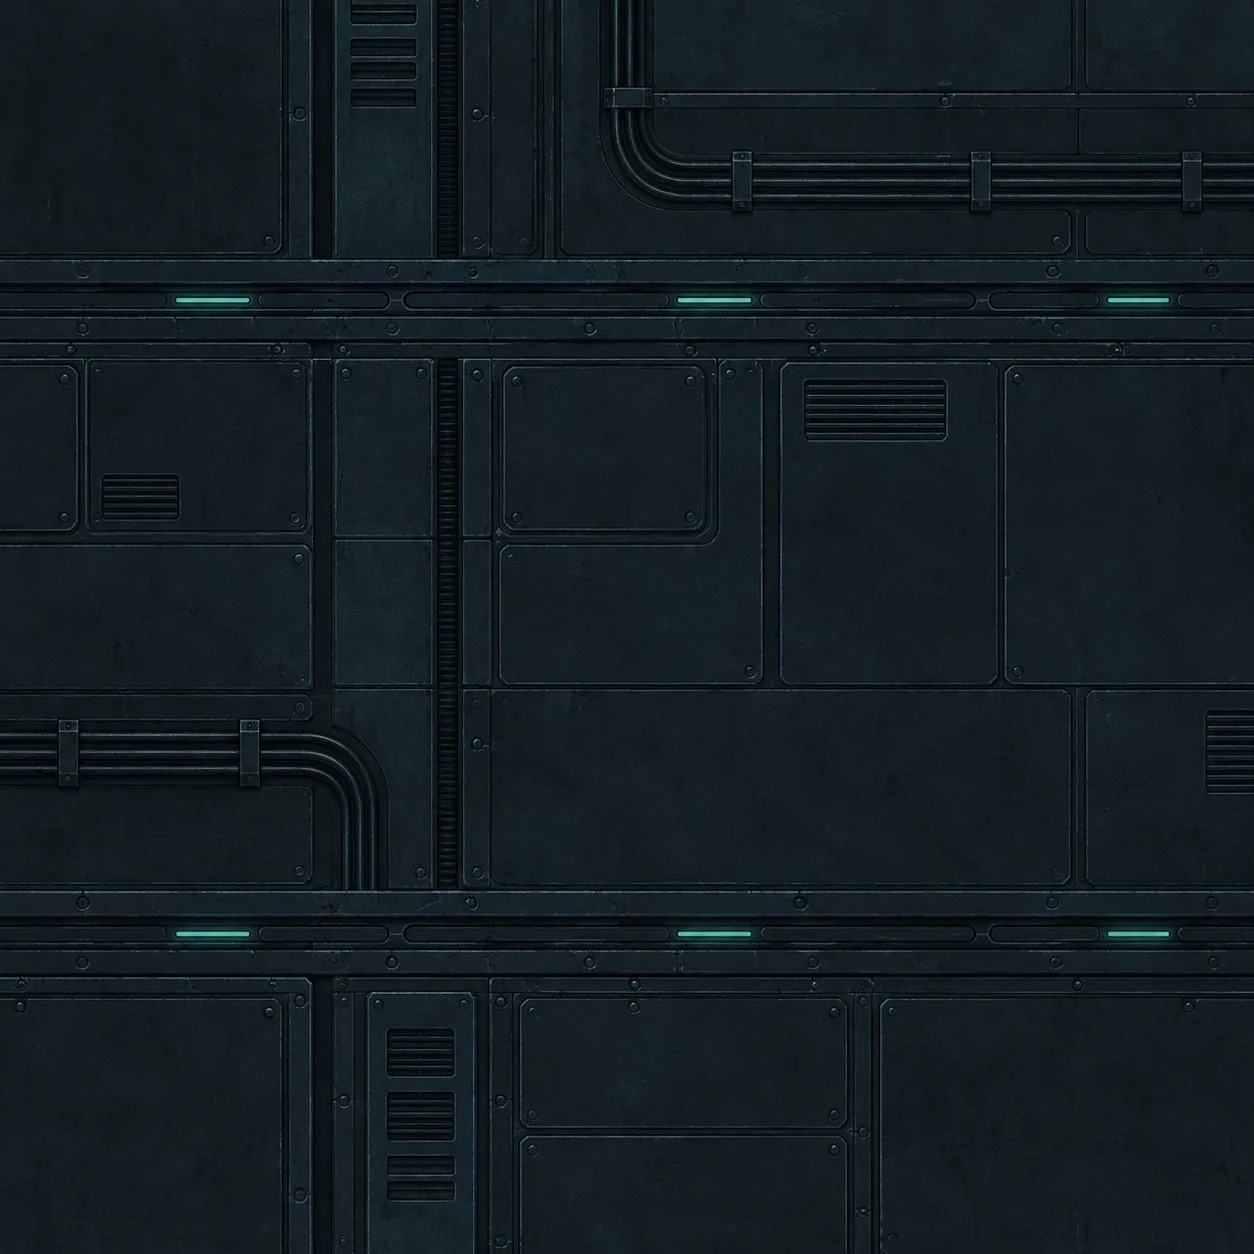
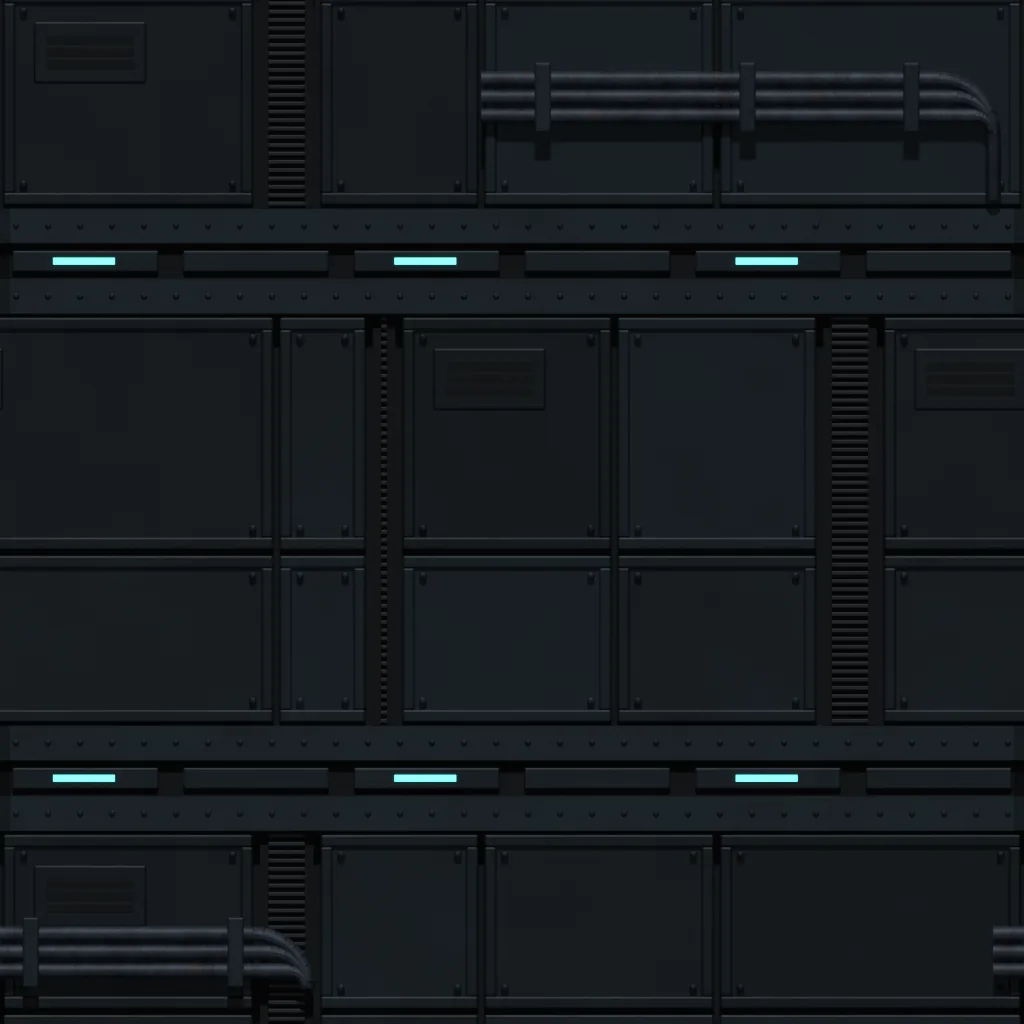
Le mur et le fond de cuve se raccordent : refaits dans Blender
Symptôme : la couture de wall et de tank-bg se voyait à chaque
répétition (prepare.py --audit : wall raccord vertical 4,7, tank-bg
horizontal 3,2 ; seuil 3,0). Le fond de cuve se répétait en miroir pour
la cacher, et ses caissons se répondaient en symétrie.

Cause : deux images générées, qui ne sont pas périodiques.

Correctif : le même dessin refait dans l'atelier de la chaufferie
(tools/images/blender/surfaces.py) — bruit sur un tore, carreau entouré
de ses huit copies, mise en page périodique —, et tank-bg revient à la
répétition simple (renderer.ts). assets-ia §17 liste ce qui est livré.

Vérification : wall raccord 0,5 / 0,3, tank-bg 0,6 / 0,4, contrôlés aussi
à l'œil en 2×2. Luminance 0,15 et 0,10 (0,17 et 0,11 avant). tsc 0
erreur, 1923 tests, construction OK.

diff --git a/src/render/renderer.ts b/src/render/renderer.ts
@@ -5412,18 +5412,13 @@ export class Renderer {
       (t) => (this.texStarsFar = t),
       true,
     )
-    // Le fond de cuve n'est PAS raccordable (mesuré : écart de bord ~5 contre
-    // 1,5 en interne) — en répétition simple, chaque frontière de tuile
-    // coupait les conduites net et désalignait les caissons. La répétition
-    // EN MIROIR raccorde par construction : les bords coïncident, les
-    // conduites font demi-tour au lieu de disparaître.
-    this.loadTexture(
-      '/assets/tank-bg.webp',
-      true,
-      true,
-      (t) => (this.texTank = t),
-      true,
-    )
+    // Le fond de cuve se répète SIMPLEMENT depuis le 13/11 : refait dans
+    // Blender (tools/images/blender/surfaces.py), il se raccorde par
+    // construction (raccord 0,6 / 0,4, seuil 3,0). L'ancien, généré, ne se
+    // raccordait pas (écart de bord ~5 contre 1,5 en interne) et se répétait
+    // EN MIROIR — les bords coïncidaient, mais les caissons et les conduites
+    // se répondaient en symétrie, ce qui trahissait la répétition.
+    this.loadTexture('/assets/tank-bg.webp', true, true, (t) => (this.texTank = t))
     this.loadTexture('/assets/wall.webp', true, true, (t) => (this.texWall = t))
     this.loadTexture(
       '/assets/wall-a.webp',

diff --git a/tools/images/blender/surfaces.py b/tools/images/blender/surfaces.py
@@ -1,0 +1,268 @@
+"""LES SURFACES RÉPÉTÉES, refaites dans Blender (13/11) — wall.webp et
+tank-bg.webp, deux carreaux qui se raccordent sur leurs quatre bords.
+
+Les anciens sortaient d'un générateur d'images et leur couture se voyait
+(prepare.py --audit : wall raccord vertical 4,7, tank-bg horizontal 3,2 ; le
+seuil est 3,0). Ici, le même dessin — des plaques d'acier brossé à coins
+coupés pour le mur, des panneaux sombres barrés de rails à voyants pour le
+fond de cuve — refait dans l'atelier de la chaufferie, où le raccord vient
+PAR CONSTRUCTION (chaud_tole.py, en-tête) : le bruit des matières pris sur un
+tore, le carreau entouré de ses huit copies, une marge rendue puis rognée.
+
+Une mise en page PÉRIODIQUE : chaque rangée donne ses coutures dans [0, 1) ;
+la dernière plaque déborde à droite, et la copie de gauche la ramène au début.
+
+Dans Blender :
+    DOSSIER = r'...\\tools\\images\\blender'
+    exec(open(DOSSIER + r'\\surfaces.py', encoding='utf-8').read())
+    surfaces() ; lance(['wall', 'tank-bg'], SORTIE, 384)
+"""
+import bpy, bmesh, math, os, random
+from mathutils import Matrix, Vector
+
+_src = os.path.join(DOSSIER, 'chaud_biome.py')
+exec(compile(open(_src, encoding='utf-8').read(), _src, 'exec'), globals())
+
+PREFIXE = ''
+
+
+# ------------------------------------------------------------- les matières
+def mat_brosse(nom, base, clair, graine, brosse=0.10, rouille=None):
+    """l'acier peint et brossé : un trait horizontal fin (le bruit très serré
+    en z, lâche en x), une marbrure large, chaque plaque un rien différente
+    (l'attribut 'var' de l'atelier)"""
+    mat = bpy.data.materials.new(nom)
+    nt, N, L = noeuds(mat)
+    out = N.new('ShaderNodeOutputMaterial')
+    b = N.new('ShaderNodeBsdfPrincipled')
+    L.new(b.outputs[0], out.inputs[0])
+    var = N.new('ShaderNodeAttribute')
+    var.attribute_type = 'GEOMETRY'
+    var.attribute_name = 'var'
+    v01 = op(nt, 'MULTIPLY_ADD', var.outputs['Fac'], 0.5, 0.5)
+    marbre = bruit_tore(nt, 2.0, 2.0, graine, detail=4, rugo=0.5)
+    trait = bruit_tore(nt, 4.0, 420.0, graine + 1, detail=3, rugo=0.6)
+    grain = bruit_tore(nt, 90.0, 90.0, graine + 2, detail=6, rugo=0.7)
+    t = op(nt, 'ADD', op(nt, 'MULTIPLY', marbre, 0.6), op(nt, 'MULTIPLY', v01, 0.5))
+    t = op(nt, 'ADD', t, op(nt, 'MULTIPLY', op(nt, 'SUBTRACT', trait, 0.5), brosse * 4))
+    coul = melange(nt, rampe(nt, t, 0.35, 1.15), lin(base), lin(clair))
+    if rouille:
+        r = rampe(nt, op(nt, 'MULTIPLY', marbre, grain), 0.36, 0.44)
+        coul = melange(nt, op(nt, 'MULTIPLY', r, 0.6), coul, lin(rouille))
+    L.new(coul, b.inputs['Base Color'])
+    b.inputs['Metallic'].default_value = 0.45
+    L.new(op(nt, 'ADD', 0.42, op(nt, 'MULTIPLY', trait, 0.18)), b.inputs['Roughness'])
+    bump = N.new('ShaderNodeBump')
+    bump.inputs['Strength'].default_value = 0.25
+    bump.inputs['Distance'].default_value = 0.0006
+    L.new(op(nt, 'ADD', trait, op(nt, 'MULTIPLY', grain, 0.5)), bump.inputs['Height'])
+    L.new(bump.outputs['Normal'], b.inputs['Normal'])
+    return mat
+
+
+# ------------------------------------------------------- l'atelier, en plus
+def _plaque_coupee(self, mat, x0, x1, z0, z1, yf, yb, var=0.0, coins=(0, 0, 0, 0)):
+    """une plaque à coins coupés en biseau : coins = (bas-gauche, bas-droite,
+    haut-droite, haut-gauche), la taille de la coupe (0 : coin droit)"""
+    bg, bd, hd, hg = coins
+    pts = []
+    for (x, z, c, dx, dz) in ((x0, z0, bg, 1, 1), (x1, z0, bd, -1, 1), (x1, z1, hd, -1, -1), (x0, z1, hg, 1, -1)):
+        if c:
+            # dans l'ordre du contour : on arrive par le côté vertical ou horizontal
+            if (dx, dz) in ((1, 1), (-1, -1)):
+                pts += [(x, z + dz * c), (x + dx * c, z)]
+            else:
+                pts += [(x + dx * c, z), (x, z + dz * c)]
+        else:
+            pts.append((x, z))
+    bm = self._bm(mat)
+    av = [bm.verts.new((x, yf, z)) for x, z in pts]
+    ar = [bm.verts.new((x, yb, z)) for x, z in pts]
+    n = len(pts)
+    faces = [bm.faces.new(av), bm.faces.new(list(reversed(ar)))]
+    for i in range(n):
+        j = (i + 1) % n
+        faces.append(bm.faces.new((av[i], av[j], ar[j], ar[i])))
+    bmesh.ops.recalc_face_normals(bm, faces=faces)
+    self._marque(mat, av + ar, var)
+
+
+Atelier.plaque_coupee = _plaque_coupee
+
+
+def fond(P, mats, nom='fond'):
+    me = bpy.data.meshes.new(P.name + '-fond')
+    bm = bmesh.new()
+    bmesh.ops.create_cube(bm, size=1.0, matrix=Matrix.Translation((0.5, FOND_Y + 0.005, 0.5)) @ Matrix.Diagonal((3, 0.01, 3, 1)))
+    bm.to_mesh(me)
+    bm.free()
+    me.materials.append(mats[nom])
+    P.objects.link(bpy.data.objects.new(P.name + '-fond', me))
+
+
+def carreau(sc, mats, nom, bati):
+    """un carreau : `bati(at, rng)` pose la géométrie dans [0,1]², les huit
+    copies l'entourent, la caméra cadre le carreau et sa marge"""
+    P = parent(sc, nom)
+    C = sous(P, nom + '-carreau')
+    at = Atelier()
+    bati(at, random.Random(len(nom) * 97))
+    at.objets(C, mats, {'panneau': 0.0022, 'rail': 0.0016, 'lame': 0.0006}, prefixe=nom)
+    fond(P, mats)
+    copies(P, C, [(dx, dz) for dx in (-1, 0, 1) for dz in (-1, 0, 1) if dx or dz])
+    declare(nom, P, 0, 1, 0, 1, mx=MARGE, mz=MARGE, alpha=False)
+
+
+def rangee(coutures):
+    """les plaques d'une rangée, de couture en couture ; la dernière va
+    jusqu'à la première + 1 (elle déborde, sa copie revient à gauche)"""
+    c = sorted(coutures)
+    return [(c[i], c[i + 1] if i + 1 < len(c) else c[0] + 1) for i in range(len(c))]
+
+
+# ------------------------------------------------------------------- le mur
+# relevé sur l'ancien wall.webp (1024 px) : quatre rangées de plaques
+# décalées, des coins coupés aux marches, un rivet à chaque coin, parfois deux
+MUR = [
+    # (bas, haut, coutures, coins coupés {indice de plaque: coins})
+    (0.000, 0.262, (0.15, 0.54, 0.895), {0: (0, 0, 0.02, 0), 1: (0, 0.02, 0, 0)}),
+    (0.262, 0.500, (0.12, 0.26, 0.72), {1: (0.025, 0, 0, 0.025), 2: (0, 0.025, 0, 0)}),
+    (0.500, 0.765, (0.0, 0.16, 0.555, 0.895), {1: (0, 0, 0, 0.02), 2: (0.02, 0, 0, 0)}),
+    (0.765, 1.000, (0.125, 0.545, 0.90), {2: (0, 0, 0.02, 0)}),
+]
+
+
+def mur(at, rng):
+    for (z0, z1, coutures, coupes) in MUR:
+        for i, (x0, x1) in enumerate(rangee(coutures)):
+            g = JEU / 2
+            var = rng.uniform(-1, 1)
+            at.plaque_coupee('panneau', x0 + g, x1 - g, z0 + g, z1 - g, 0.0, FOND_Y, var, coupes.get(i, (0, 0, 0, 0)))
+            # un rivet à chaque coin, en retrait ; un sur cinq, doublé
+            for (x, z, sx, sz) in ((x0, z0, 1, 1), (x1, z0, -1, 1), (x1, z1, -1, -1), (x0, z1, 1, -1)):
+                rx, rz = x + sx * 0.016, z + sz * 0.016
+                at.dome('rivet', rx, rz, 0.0045, 0.0, var)
+                if rng.random() < 0.2:
+                    at.dome('rivet', rx + sx * 0.011, rz, 0.0038, 0.0, var)
+
+
+# ------------------------------------------------------------ le fond de cuve
+RAILS = (0.24, 0.745)       # le milieu des deux rails à voyants, relevés sur l'ancien
+
+
+def rail(at, zc):
+    """un rail horizontal : deux plats rivetés, une gorge, trois voyants"""
+    h = 0.032
+    # les deux plats courent d'un bord à l'autre SANS biseau ('plat') : biseauté,
+    # leur bout marquait une encoche au bord du carreau, là où la copie reprend
+    at.boite('plat', -0.01, 1.01, zc + h * 0.55, zc + h * 1.6, -0.006, FOND_Y, 0.3)
+    at.boite('plat', -0.01, 1.01, zc - h * 1.6, zc - h * 0.55, -0.006, FOND_Y, 0.3)
+    at.boite('fond', -0.01, 1.01, zc - h * 0.55, zc + h * 0.55, 0.004, FOND_Y, 0)
+    for k in range(32):
+        x = (k + 0.5) / 32
+        at.dome('rivet', x, zc + h * 1.08, 0.0032, -0.006, 0)
+        at.dome('rivet', x, zc - h * 1.08, 0.0032, -0.006, 0)
+    # les fentes de la gorge, et les voyants dans trois d'entre elles
+    for k in range(6):
+        x0 = k / 6 + 0.012
+        at.boite('rail', x0, x0 + 1 / 6 - 0.024, zc - h * 0.32, zc + h * 0.32, -0.002, 0.004, -0.4)
+        if k % 2 == 0:
+            at.boite('voyant', x0 + 0.04, x0 + 0.1, zc - h * 0.1, zc + h * 0.1, -0.0035, -0.002, 0)
+
+
+def grille(at, x0, x1, z0, z1, var):
+    at.boite('panneau', x0, x1, z0, z1, -0.002, FOND_Y, var)
+    n = max(3, round((z1 - z0 - 0.02) / 0.016))
+    for i in range(n):
+        z = z0 + 0.012 + (z1 - z0 - 0.024) * (i + 0.5) / n
+        at.boite('fond', x0 + 0.012, x1 - 0.012, z - 0.004, z + 0.004, -0.0025, -0.001, 0)
+
+
+def panneau_cadre(at, x0, x1, z0, z1, var, rng):
+    """un panneau : sa plaque, un cadre en relief, ses rivets ; parfois une
+    grille d'aération dans un coin"""
+    g = JEU / 2
+    x0, x1, z0, z1 = x0 + g, x1 - g, z0 + g, z1 - g
+    at.boite('panneau', x0, x1, z0, z1, 0.0, FOND_Y, var)
+    m = 0.012
+    at.boite('panneau', x0, x1, z1 - m, z1, -0.004, 0.0, var)
+    at.boite('panneau', x0, x1, z0, z0 + m, -0.004, 0.0, var)
+    at.boite('panneau', x0, x0 + m, z0 + m, z1 - m, -0.004, 0.0, var)
+    at.boite('panneau', x1 - m, x1, z0 + m, z1 - m, -0.004, 0.0, var)
+    for (x, z) in ((x0 + 0.02, z0 + 0.02), (x1 - 0.02, z0 + 0.02), (x1 - 0.02, z1 - 0.02), (x0 + 0.02, z1 - 0.02)):
+        at.dome('rivet', x, z, 0.004, -0.004, var)
+    w, h = x1 - x0, z1 - z0
+    if w > 0.14 and h > 0.12 and rng.random() < 0.35:
+        gx = x0 + 0.03 if rng.random() < 0.5 else x1 - 0.03 - 0.11
+        gz = z1 - 0.03 - 0.06
+        grille(at, gx, gx + 0.11, gz, gz + 0.06, var)
+
+
+def faisceau(at, z, x0, xc, zb, r=0.0075):
+    """trois conduites côte à côte, à l'horizontale de x0 à xc, puis un coude
+    qui descend jusqu'à zb — et des colliers"""
+    for k in range(3):
+        dz = (k - 1) * 0.018
+        R = 0.035 + dz
+        at.fut('tuyau', x0, xc - R, r, 0, -0.012, z + dz)
+        prev = Vector((xc - R, -0.012, z + dz))
+        for i in range(1, 9):
+            t = (math.pi / 2) * i / 8
+            p = Vector((xc - R + R * math.sin(t), -0.012, z + dz - R + R * math.cos(t)))
+            at.tube('tuyau', prev, p, r, seg=12)
+            prev = p
+        at.tube('tuyau', prev, (prev.x, -0.012, zb), r, seg=12)
+    for x in (x0 + 0.06, x0 + 0.26, x0 + 0.42):
+        if x < xc - 0.06:
+            at.boite('rail', x - 0.008, x + 0.008, z - 0.034, z + 0.034, -0.024, -0.004, 0)
+
+
+def cuve(at, rng):
+    for zc in RAILS:
+        rail(at, zc)
+    # les bandes entre les rails : panneaux encadrés, une gorge verticale
+    # rainurée (un rythme qui ne suit pas les panneaux)
+    bandes = [(RAILS[0] + 0.052, RAILS[1] - 0.052), (RAILS[1] + 0.052, RAILS[0] + 1 - 0.052)]
+    coutures = [((0.27, 0.36, 0.39, 0.60, 0.80, 0.86), (0.0, 0.42, 1.0)),
+                ((0.0, 0.25, 0.31, 0.47, 0.70), (0.0, 0.55, 1.0))]
+    for (b0, b1), (cx, fz) in zip(bandes, coutures):
+        H = b1 - b0
+        for (x0, x1) in rangee(cx):
+            if x1 - x0 < 0.08:
+                # une gorge rainurée verticale
+                at.boite('fond', x0 + 0.004, x1 - 0.004, b0, b1, 0.006, FOND_Y, 0)
+                n = int(H / 0.008)
+                for k in range(n):
+                    z = b0 + (k + 0.5) * H / n
+                    at.boite('lame', x0 + 0.012, x1 - 0.012, z - 0.0018, z + 0.0018, 0.002, 0.006, 0)
+                continue
+            # chaque plaque coupée en hauteur aux fractions fz
+            for j in range(len(fz) - 1):
+                z0, z1 = b0 + H * fz[j], b0 + H * fz[j + 1]
+                panneau_cadre(at, x0, x1, z0, z1, rng.uniform(-1, 1), rng)
+    # les faisceaux de conduites, l'un en haut à droite, l'autre en bas à gauche
+    faisceau(at, RAILS[1] + 0.16, 0.47, 0.97, RAILS[1] + 0.06)
+    faisceau(at, RAILS[0] - 0.17, -0.03, 0.30, 0.04)
+
+
+def surfaces():
+    vide_scene()
+    PIECES.clear()
+    sc = bpy.context.scene
+    mats = matieres_biome()
+    # le mur : un acier bleu nuit brossé (l'ancien mesurait 0,17 de luminance)
+    # (premier essai à 1c242e / 3a4654 : 0,126 de luminance, trop sombre)
+    mats['panneau'] = mat_brosse('mur', (0x26, 0x30, 0x3c), (0x4c, 0x5a, 0x6a), 31, brosse=0.12)
+    mats['rivet'] = mats['panneau']
+    mats['fond'] = mat_simple('fond', (0x05, 0x07, 0x09), rug=0.9)
+    mats['rail'] = mat_brosse('rail', (0x18, 0x24, 0x2a), (0x30, 0x40, 0x48), 33, brosse=0.05)
+    mats['plat'] = mats['rail']
+    mats['voyant'] = mat_simple('voyant', (0x10, 0x40, 0x40), rug=0.3, emission=(0x5a, 0xf0, 0xe0), force=3.0)
+    carreau(sc, mats, 'wall', mur)
+    # le fond de cuve : plus sombre, plus sarcelle (l'ancien : 0,11)
+    mats_cuve = dict(mats)
+    mats_cuve['panneau'] = mat_brosse('cuve', (0x10, 0x1a, 0x20), (0x24, 0x32, 0x3a), 37, brosse=0.04, rouille=(0x22, 0x2a, 0x2a))
+    mats_cuve['rivet'] = mats_cuve['panneau']
+    carreau(sc, mats_cuve, 'tank-bg', cuve)
+    lumiere_camera(sc)
+    sc.cycles.device = 'GPU'

diff --git a/docs/assets-ia.md b/docs/assets-ia.md
@@ -697,7 +697,16 @@ comme le reste.
 **Ce qui vaut la peine d'être animé** (dans cet ordre) : la vanne (elle
 tourne), l'écran allumé (il scintille), la gouttière de la serre (l'eau y
 coule), le blé nain (il ondule). Pas le sas de raccord ni les fioles : rien
-n'y bouge par nature. **Aucune bande n'est livrée au 10/09/2026.**
+n'y bouge par nature.
+
+**Livrées le 13/11/2026** : la vanne (`decal-vanne-anime`, 8 vues — le volant
+de cinq rayons tourne de 72°, la boucle se referme exactement) et l'image
+fixe avec elle, refaites dans Blender (`tools/images/blender/vanne.py`) ;
+l'écran allumé (`decal-ecran-on-anime`, 8 vues : balayage, voyants,
+`tools/images/ecran_anime.py`, tiré de l'image fixe livrée) ; l'éclat de
+mémoire (`meta-eclat`, une bande de 24 vues carrées, `tools/images/blender/
+eclat.py`). Le même jour, `wall` et `tank-bg` refaits raccordables
+(`tools/images/blender/surfaces.py`).
 
 **La phrase du mouvement, pièce par pièce** (à substituer dans le gabarit
 ci-dessus ; la vanne a la sienne en §19, après sa reprise) :
